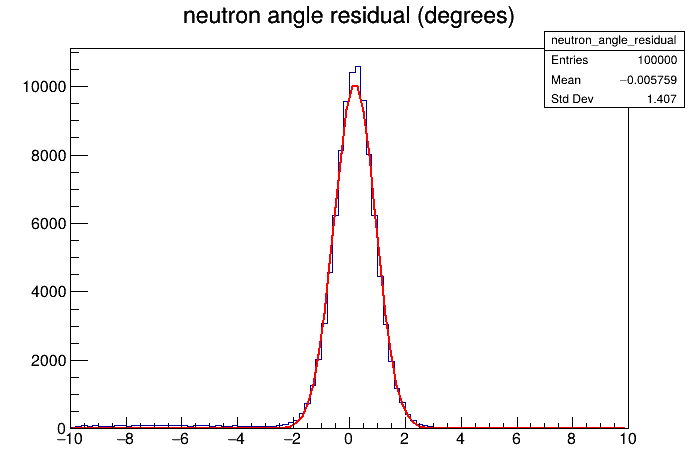
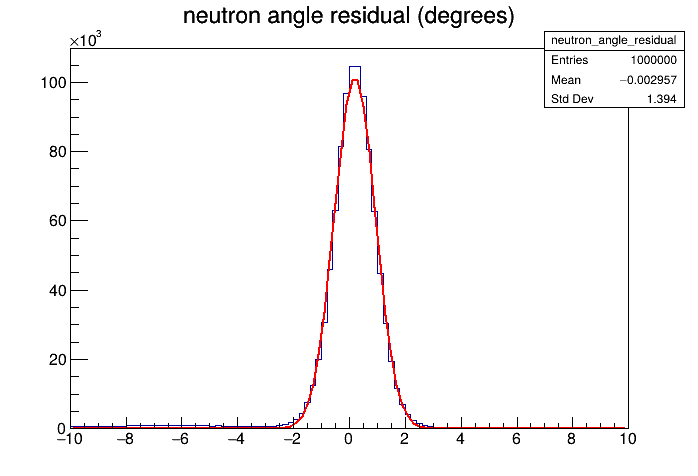
Changed simulation output to 10x the data.

diff --git a/RecoilToTruth.py b/RecoilToTruth.py
@@ -19,55 +19,63 @@ print(recoilData.max(axis=0))
 print(recoilData.min(axis=0))
 
 # Splitting data into training and testing labels, saving 25% for testing
-trainingData = recoilData.iloc[:240000, :]
-testingData = recoilData.iloc[240000:, :]
+trainingData = recoilData.iloc[:2400000, :]
+testingData = recoilData.iloc[2400000:, :]
 
 # Extracting proton data vs neutron data
 neutronTraining = trainingData.iloc[:, 60]
 protonTraining = trainingData.drop(60, axis=1)
+
+print(protonTraining.head(10))
+print(neutronTraining.head(10))
+print(recoilData.head(10))
 
 neutronTesting = testingData.iloc[:, 60]
 protonTesting = testingData.drop(60, axis=1)
 
 # Defining model
 RecoilModel = tf.keras.models.Sequential()
-RecoilModel.add(tf.keras.layers.Dense(64, input_shape=(60,), activation="relu"))
-RecoilModel.add(tf.keras.layers.Dense(128, activation="relu"))
-RecoilModel.add(tf.keras.layers.Dense(128, activation="relu"))
-RecoilModel.add(tf.keras.layers.Dense(128, activation="relu"))
-RecoilModel.add(tf.keras.layers.Dense(64, activation="relu"))
-RecoilModel.add(tf.keras.layers.Dense(3, activation="softmax"))
+RecoilModel.add(tf.keras.layers.Dense(256, input_shape=(60,), activation="relu"))
+RecoilModel.add(tf.keras.layers.Dense(512, activation="relu"))
+RecoilModel.add(tf.keras.layers.Dense(512, activation="relu"))
+RecoilModel.add(tf.keras.layers.Dense(512, activation="relu"))
+RecoilModel.add(tf.keras.layers.Dense(256, activation="relu"))
+RecoilModel.add(tf.keras.layers.Dense(1,))
 
 # Compiling model
 RecoilModel.compile(
-    optimizer="adam", loss="sparse_categorical_crossentropy", metrics=["accuracy", "mean_squared_error"]
+    optimizer="adam", loss="mean_squared_error", metrics=["mean_absolute_error", "mean_squared_error"]
 )
 
 # Training model
-RecoilModel.fit(protonTraining, neutronTraining, validation_data=(protonTesting, neutronTesting), epochs=5)
-
-# Testing model
-valLoss, valAcc = RecoilModel.evaluate(protonTesting, neutronTesting)
-print("Test accuracy: ", valAcc)
-print("Test loss: ", valLoss)
+RecoilModel.fit(protonTraining, neutronTraining, validation_data=(protonTesting, neutronTesting), epochs=10)
 
 # Grabbing last 200 data points for plotting
-plottingProtons = protonTesting.iloc[-200:, :]
-plottingNeutrons = neutronTesting.iloc[-200:] 
+plottingProtons = protonTesting.iloc[-1000:, :]
+plottingNeutrons = neutronTesting.iloc[-1000:] 
+
+plottingProtons.reset_index(drop=True, inplace=True)
+plottingNeutrons.reset_index(drop=True, inplace=True)
 
 # Predicting Phi
 modelPrediction = RecoilModel.predict(plottingProtons)
 
-modelPrediction = modelPrediction * 5
+modelPrediction = (modelPrediction.ravel()) * 5
 plottingNeutrons = plottingNeutrons * 5
+
+predictionData = pd.DataFrame({"Predicted":modelPrediction, "True":plottingNeutrons})
+
+print(predictionData.head(20))
+
+print(plottingProtons.iloc[9])
+print(plottingNeutrons.iloc[9])
 
 # Plotting
 plt.figure(1)
-plt.plot(plottingNeutrons, modelPrediction, linestyle='None', marker='.', markersize=12)
+plt.plot(predictionData["True"], predictionData["Predicted"], linestyle='None', marker='.', markersize=4)
 plt.title("Predicted Neutron Energy vs True Neutron Energy")
 plt.xlabel("True Energy (MeV)")
 plt.xlim(0, 5.5)
 plt.ylabel("Predicted Energy (MeV)")
 plt.ylim(0, 5.5)
 plt.savefig("True Energy.pdf", bbox_inches='tight')
-plt.legend()

diff --git a/neutrons.py b/neutrons.py
@@ -46,7 +46,7 @@ def Style():
 def main():
 
     # Style()
-    iterations = 100000  # number of measurements used to estimate resolution
+    iterations = 1000000  # number of measurements used to estimate resolution
     c1 = TCanvas("Results")
     random_engine = TRandom3()
 
